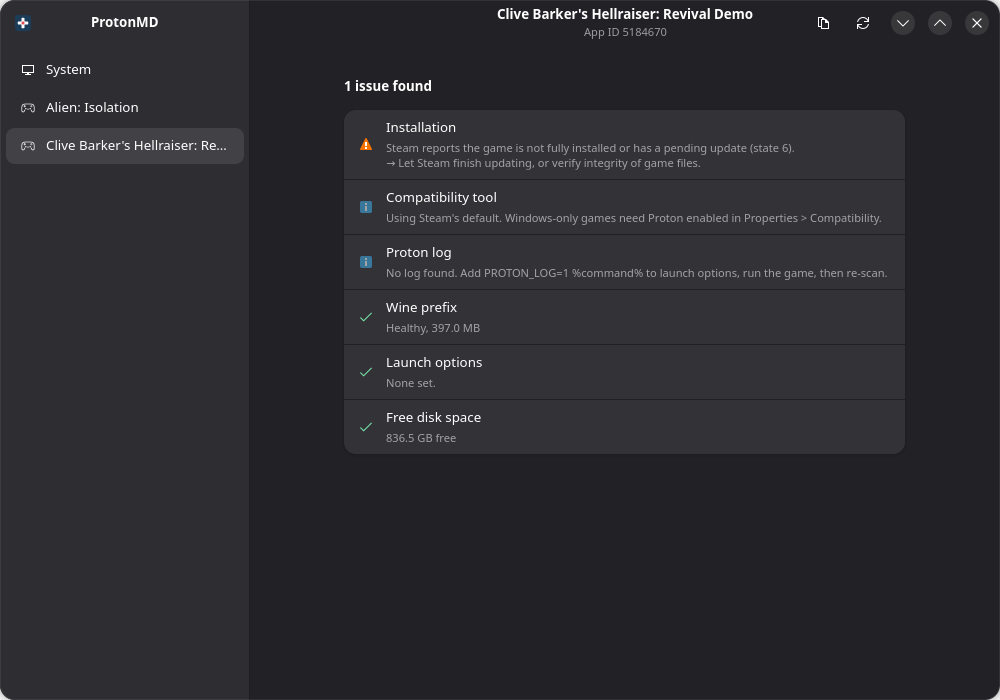
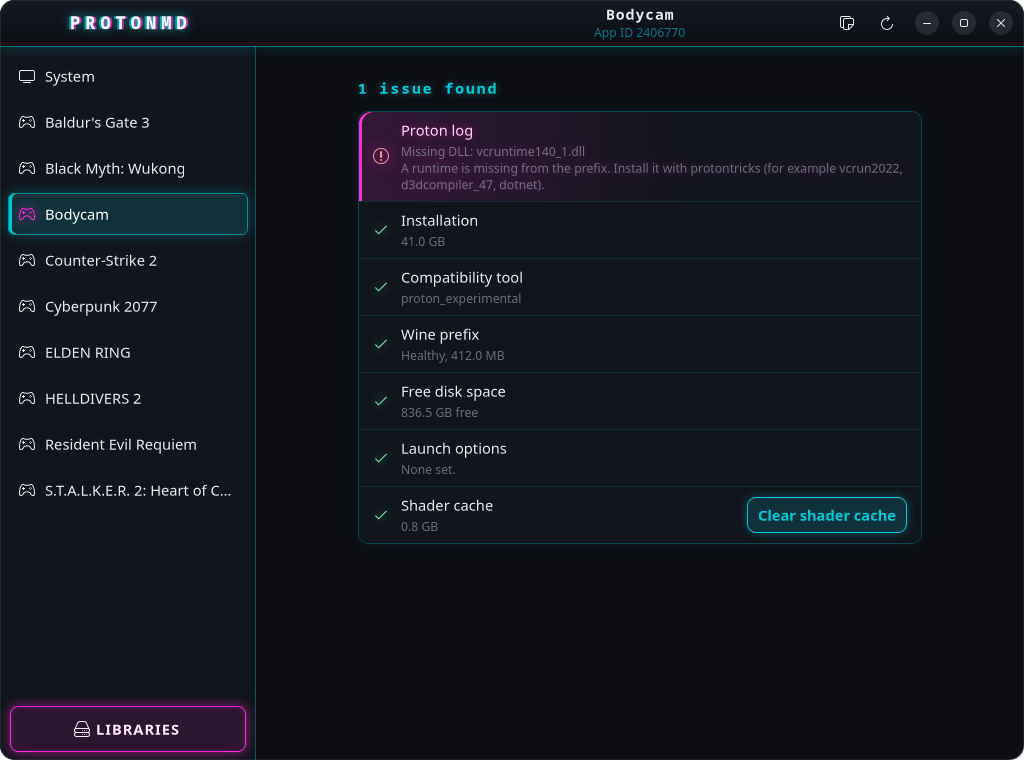
Refresh: --demo sample mode, glowing problem rows, new neon screenshots

diff --git a/protonmd/demo.py b/protonmd/demo.py
@@ -1,0 +1,88 @@
+"""`protonmd --demo`: sample games and results so you can try the app (and take screenshots)
+without Steam. Nothing here reads or changes your system."""
+from . import checks, config, steam
+from .model import Fix, Game, Result, Status
+
+OK, INFO, WARN, FAIL = Status.OK, Status.INFO, Status.WARN, Status.FAIL
+GB = 1024**3
+LIB = "/mnt/games/SteamLibrary"
+
+GAMES = [  # appid, name, size in GB
+    ("1091500", "Cyberpunk 2077", 70), ("3764200", "Resident Evil Requiem", 62),
+    ("2406770", "Bodycam", 41), ("1643320", "S.T.A.L.K.E.R. 2: Heart of Chornobyl", 160),
+    ("1245620", "ELDEN RING", 60), ("1086940", "Baldur's Gate 3", 150),
+    ("553850", "HELLDIVERS 2", 100), ("2358720", "Black Myth: Wukong", 130),
+    ("730", "Counter-Strike 2", 35),
+]
+
+
+def _fix(label, cmd):
+    return Fix(label, lambda: "Demo mode: nothing was changed.", command=cmd)
+
+
+def _cache(appid, size_gb):
+    st = WARN if size_gb > 2 else OK
+    return Result("shadercache", "Shader cache", st, f"{size_gb:.1f} GB" +
+                  (" is large; clearing it can fix stutter or corrupted rendering." if st else ""),
+                  fix=_fix("Clear shader cache", f"rm -r steamapps/shadercache/{appid}"))
+
+
+def _base(appid, size_gb, tool="proton_experimental", prefix="Healthy", free=836.5):
+    return [Result("installed", "Installation", OK, f"{size_gb:.1f} GB"),
+            Result("proton", "Compatibility tool", OK, tool),
+            Result("prefix", "Wine prefix", OK, f"{prefix}, 412.0 MB"),
+            Result("disk", "Free disk space", OK, f"{free:.1f} GB free")]
+
+
+def _game_results(appid):
+    size = {g[0]: g[2] for g in GAMES}[appid]
+    r = _base(appid, size)
+    opts_ok = Result("launch", "Launch options", OK, "None set.")
+    log_ok = Result("log", "Proton log", OK, f"No known errors in ~/steam-{appid}.log")
+    if appid == "1091500":  # Cyberpunk: big shader cache
+        return r + [opts_ok, log_ok, _cache(appid, 4.2)]
+    if appid == "3764200":  # RE Requiem: stale launch options
+        return r + [Result("launch", "Launch options", WARN,
+                           "DXVK_ASYNC=1 PROTON_USE_WINED3D=1 %command%\n"
+                           "DXVK_ASYNC only works in patched DXVK builds. Mainline DXVK ignores it, and it can trigger "
+                           "anti-cheat bans in some online games. Remove it. Use shader pre-caching instead.\n"
+                           "PROTON_USE_WINED3D=1 replaces DXVK/VKD3D with OpenGL translation. It is much slower and "
+                           "rarely needed on modern GPUs. Remove it unless this game specifically needs it."),
+                    log_ok, _cache(appid, 1.1)]
+    if appid == "2406770":  # Bodycam: missing runtime
+        return r + [opts_ok, Result("log", "Proton log", FAIL,
+                                    "Missing DLL: vcruntime140_1.dll\nA runtime is missing from the prefix. Install it "
+                                    "with protontricks (for example vcrun2022, d3dcompiler_47, dotnet)."),
+                    _cache(appid, 0.8)]
+    if appid == "1643320":  # STALKER 2: no proton chosen
+        return [r[0], Result("proton", "Compatibility tool", INFO,
+                             "Using Steam's default. Windows-only games need Proton enabled in Properties > Compatibility."),
+                r[2], r[3], opts_ok, log_ok, _cache(appid, 3.6)]
+    if appid == "1245620":
+        return r + [Result("launch", "Launch options", OK, "gamemoderun %command%"), log_ok, _cache(appid, 1.4)]
+    if appid == "553850":  # Helldivers: broken prefix
+        r[2] = Result("prefix", "Wine prefix", FAIL,
+                      "The prefix exists but is incomplete (no system.reg). This is a typical sign of an interrupted first launch.",
+                      fix=_fix("Back up and reset prefix", "mv compatdata/553850 compatdata/553850.protonmd-bak-<time>"))
+        return r + [opts_ok, log_ok]
+    return r + [opts_ok, log_ok, _cache(appid, 0.6)]
+
+
+def _system_results():
+    return [Result("demo", "Demo mode", INFO, "Sample data for screenshots and trying the app. This is not your system."),
+            Result("gpu", "GPU driver", OK, "NVIDIA kernel module 580.95.05"),
+            Result("vulkan", "Vulkan 64-bit", OK, "NVIDIA GeForce RTX 4070"),
+            Result("vulkan32", "32-bit Vulkan", OK, "32-bit loader present."),
+            Result("maxmap", "vm.max_map_count", OK, "2147483642"),
+            Result("nofile", "Open file limit", OK, "1048576")]
+
+
+def install():
+    steam.find_steam_root = lambda: "/demo/steam"
+    steam.scan_games = lambda root, hidden=(): [
+        Game(appid=a, name=n, library=LIB, installdir=n, size_on_disk=int(s * GB), state_flags=4) for a, n, s in GAMES]
+    steam.missing_libraries = lambda root: []
+    steam.all_libraries = lambda root: [(LIB, True)]
+    config.hidden_libraries = lambda: set()
+    checks.run_system_checks = _system_results
+    checks.run_game_checks = lambda root, g: _game_results(g.appid)

diff --git a/protonmd/theme.py b/protonmd/theme.py
@@ -113,6 +113,17 @@ button.destructive-action {{
 button.destructive-action:hover {{ background-color: alpha({MAGENTA}, .32); }}
 headerbar button {{ border-radius: 6px; }}
 
+/* problem rows get a glowing edge so they stand out at a glance */
+list.boxed-list > row.st-warn {{
+  background-image: linear-gradient(to right, alpha({AMBER}, .10), transparent 60%);
+  box-shadow: inset 3px 0 0 {AMBER};
+}}
+list.boxed-list > row.st-fail {{
+  background-image: linear-gradient(to right, alpha({MAGENTA}, .14), transparent 60%);
+  box-shadow: inset 3px 0 0 {MAGENTA};
+}}
+list.boxed-list > row.st-fail .title {{ color: #FFD6F6; text-shadow: 0 0 8px alpha({MAGENTA}, .6); }}
+
 /* status icons glow */
 image.success {{ -gtk-icon-shadow: 0 0 6px alpha({MINT}, .8); }}
 image.warning {{ -gtk-icon-shadow: 0 0 6px alpha({AMBER}, .8); }}

diff --git a/tests/test_demo.py b/tests/test_demo.py
@@ -1,0 +1,25 @@
+import unittest
+
+from protonmd import demo
+from protonmd.model import Status
+
+
+class DemoTests(unittest.TestCase):
+    def test_every_demo_game_has_results(self):
+        for appid, name, _ in demo.GAMES:
+            res = demo._game_results(appid)
+            self.assertTrue(res, name)
+            self.assertTrue(all(isinstance(r.status, Status) for r in res))
+
+    def test_demo_fixes_change_nothing(self):
+        fixes = [r.fix for a, _, _ in demo.GAMES for r in demo._game_results(a) if r.fix]
+        self.assertTrue(fixes)
+        for f in fixes:
+            self.assertIn("nothing was changed", f.run())
+
+    def test_system_page_says_it_is_sample_data(self):
+        self.assertIn("not your system", demo._system_results()[0].detail)
+
+
+if __name__ == "__main__":
+    unittest.main()

diff --git a/protonmd/app.py b/protonmd/app.py
@@ -210,6 +210,8 @@ class Window(Adw.ApplicationWindow):
         row.set_subtitle(GLib.markup_escape_text(text))
         row.set_subtitle_selectable(True)
         icon_name, css = ICONS[r.status]
+        if r.status >= Status.WARN:
+            row.add_css_class("st-fail" if r.status == Status.FAIL else "st-warn")
         img = Gtk.Image(icon_name=icon_name, css_classes=[css])
         row.add_prefix(img)
         if r.fix:

diff --git a/protonmd/launcher.py b/protonmd/launcher.py
@@ -2,6 +2,9 @@ import sys
 
 
 def main():
+    if "--demo" in sys.argv:
+        from . import demo
+        demo.install()
     if "--cli" in sys.argv:
         from .cli import main as cli_main
         return cli_main([a for a in sys.argv[1:] if a != "--cli"])

diff --git a/README.md b/README.md
@@ -16,7 +16,9 @@
 
 <br>
 
-<img src="docs/screenshot.png" alt="ProtonMD checking a game" width="760">
+<img src="docs/screenshot.png" alt="ProtonMD finding a missing runtime in a game" width="760">
+
+<sub>Screenshots use sample data (`protonmd --demo`), not a real Steam library.</sub>
 
 </div>
 
